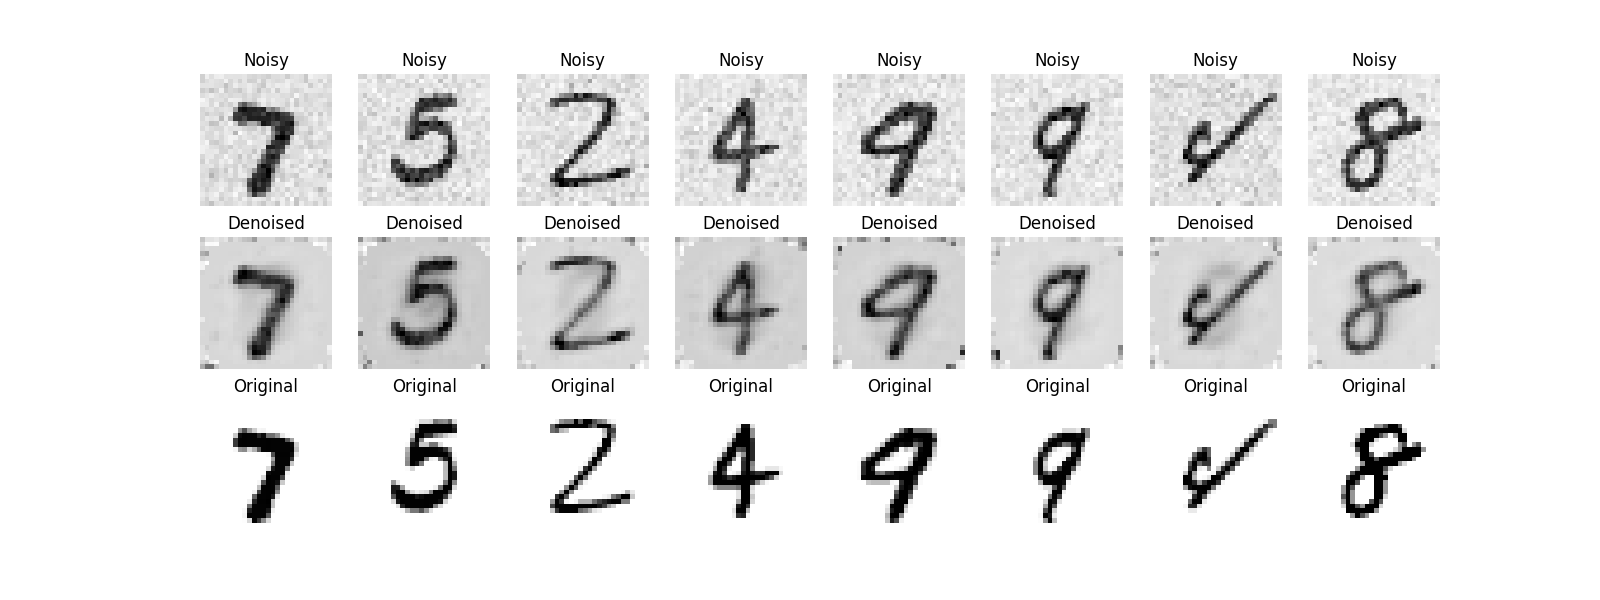
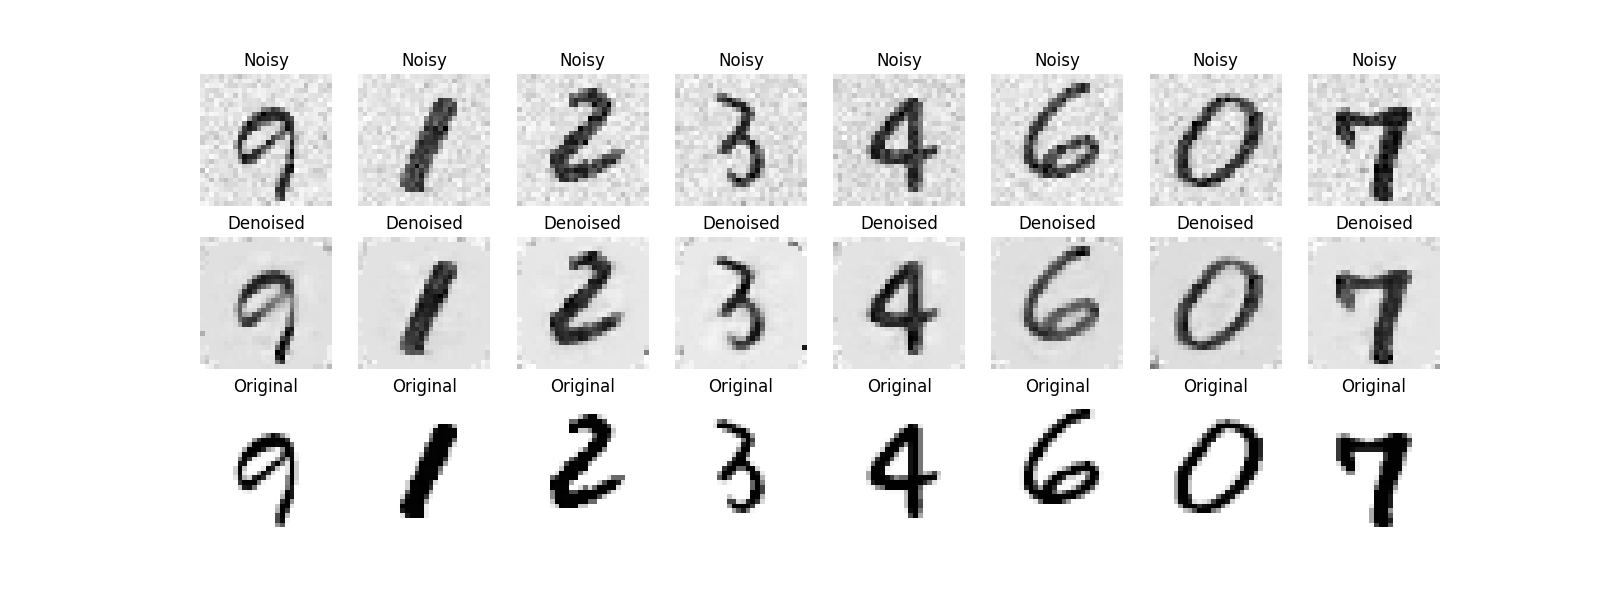
Resnet with batchnorm for FCNN added.

diff --git a/neural_networks/fcnn.py b/neural_networks/fcnn.py
@@ -12,6 +12,50 @@ import tensorflow as tf
 
 from neural_networks import scalers
 
+def bn_relu_conv(in_tf, is_training_tf, n_filters=16,
+    residual=False, reuse=False):
+    """ A convolutional resnet building block.
+    
+    Pushes in_tf through batch_norm, relu, and convolution.
+    If residual = True, make two bn_relu_conv layers and add
+    a skip connection. All convolutional filters are 3x3.
+
+    Args:
+        in_tf: Input tensor.
+        is_training_tf: bool tensor, indicates whether we're in the training
+            phase or not (used by batch_norm and dropout).
+        n_filters (int): Number of 3x3 convolution filters.
+        residual (bool): Whether to make the layer residual.
+        reuse (bool): Whether to reuse Tensorflow variables.
+
+    Returns:
+        out_tf: Output tensor.
+    """
+
+    # Apply batch normalization.
+    out_tf = tf.layers.batch_normalization(
+        in_tf, center=True, scale=True, training=is_training_tf)
+
+    # Apply the nonlinearity.
+    out_tf = tf.nn.elu(out_tf)
+
+    # Apply convolutions.
+    out_tf = tf.layers.conv2d(
+        out_tf, filters=n_filters, kernel_size=3,
+        padding='same', activation=None, reuse=reuse, name='conv1')
+
+    if residual:
+        out_tf = tf.layers.batch_normalization(
+            out_tf, center=True, scale=True, training=is_training_tf)
+        out_tf = tf.nn.elu(out_tf)
+        out_tf = tf.layers.conv2d(
+            out_tf, filters=n_filters, kernel_size=3,
+            padding='same', activation=None, reuse=reuse, name='conv2')
+        out_tf += in_tf
+    tf.summary.histogram('ftr_map', out_tf)
+
+    return out_tf
+
 
 class FCNN(object):
     """ A Fully Convolutional Neural Net with residual connections.
@@ -29,27 +73,34 @@ class FCNN(object):
             in each layer.
         x_tf (tf.placeholder): If given, use as graph input.
         reuse (bool): Whether to reuse the net weights.
+        bn (bool): Whether to use batch normalization.
+        res (bool): Whether to add residual connections.
 
     TODO: This first version has no residual connections!
     """
-    def __init__(self, x_shape, n_layers=3, n_filters=np.array([4] * 3),
-        x_tf=None, reuse=False, **kwargs):
+    def __init__(self, x_shape, n_layers=4, n_filters=None,
+        x_tf=None, reuse=False, bn=True, res=True, **kwargs):
+        if n_filters is None:
+            n_filters = np.array([64] * n_layers)
         if n_layers != len(n_filters):
             raise ValueError('Number of layers must equal len(n_filters)')
         self.x_shape = x_shape
         self.n_layers = n_layers
         self.n_filters = n_filters
         self.reuse = reuse
+        self.bn = bn
+        self.res = res
 
         # Set up the placeholders.
         if x_tf is None:
-            self.x_tf = tf.placeholder(
-                tf.float32, [None, x_shape[0], x_shape[1], x_shape[2]], name='input')
+            self.x_tf = tf.placeholder(tf.float32,
+                [None, x_shape[0], x_shape[1], x_shape[2]], name='input')
         else:
             self.x_tf = x_tf
-        self.y_tf = tf.placeholder(
-            tf.float32, [None, x_shape[0], x_shape[1], x_shape[2]], name='output')
+        self.y_tf = tf.placeholder(tf.float32,
+            [None, x_shape[0], x_shape[1], x_shape[2]], name='output')
         self.lr_tf = tf.placeholder(tf.float32, name='learningrate')
+        self.is_training = tf.placeholder(tf.bool, name='train_flag')
 
         # Inference.
         self.y_pred = self.define_fcnn(**kwargs)
@@ -75,17 +126,14 @@ class FCNN(object):
         # Create the hidden layers.
         for layer_id in range(self.n_layers):
             with tf.variable_scope('layer{}'.format(layer_id)):
-                y_pred = tf.layers.conv2d(
-                    y_pred, filters=self.n_filters[layer_id], kernel_size=3,
-                    padding='same', activation=tf.nn.elu, reuse=self.reuse)
-                tf.summary.histogram('feature_map', y_pred)
-    
+                y_pred = bn_relu_conv(y_pred, self.is_training,
+                    self.n_filters[layer_id], self.res, self.reuse)
+                
         # The final layer polls depth channels with 1x1 convolutions.
         with tf.variable_scope('1x1conv'):
             y_pred = tf.layers.conv2d(
                 y_pred, filters=self.x_shape[2], kernel_size=1, padding='same',
                 activation=None, reuse=self.reuse)
-            tf.summary.histogram('feature_map', y_pred)
 
         return y_pred
 
@@ -94,7 +142,11 @@ class FCNN(object):
         return loss
 
     def define_training(self):
-        return tf.train.AdamOptimizer(self.lr_tf).minimize(self.loss_tf)
+        # Make sure to include batch_norm dependencies during training.
+        update_ops = tf.get_collection(tf.GraphKeys.UPDATE_OPS)
+        with tf.control_dependencies(update_ops):
+            train_op = tf.train.AdamOptimizer(self.lr_tf).minimize(self.loss_tf)
+        return train_op
 
     def define_scalers(self):
         return scalers.StandardScaler(), scalers.StandardScaler()
@@ -112,11 +164,11 @@ class FCNN(object):
         nans = np.isnan(x)
         x = self.scaler_x.transform(x)
         x[np.isnan(x)] = 0
-        feed_dict = {self.x_tf: x}
+        feed_dict = {self.x_tf: x, self.is_training: False}
         y_pred = sess.run(self.y_pred, feed_dict)
         return self.scaler_y.inverse_transform(y_pred)
 
-    def fit(self, x, y, sess, epochs=1000, batch_size=32,
+    def fit(self, x, y, sess, epochs=1000, batch_size=128,
             lr=1e-3, valsize=.1, nn_verbose=True,
             writer=None, summary=None, **kwargs):
         """ Train the MDN to maximize the data likelihood.
@@ -178,6 +230,7 @@ class FCNN(object):
                 np.random.choice(n_samples-n_val, batch_size, replace=False)]
             feed_dict = {self.x_tf: x[batch_ids],
                          self.y_tf: y[batch_ids],
+                         self.is_training: True,
                          self.lr_tf: lr}
 
             if summary is None:
@@ -190,6 +243,7 @@ class FCNN(object):
                     feed_dict)
 
             if n_val > 0:
+                feed_dict[self.is_training] = False
                 feed_dict[self.x_tf] = x[ids_perm[:n_val]]
                 feed_dict[self.y_tf] = y[ids_perm[:n_val]]
                 val_loss, vals = sess.run([self.loss_tf, val_summary],
@@ -236,11 +290,11 @@ if __name__ == "__main__":
     ims_tr = mnist.train.images.reshape(-1, 28, 28, 1)
     ims_ts = mnist.test.images.reshape(-1, 28, 28, 1)
 
-    # Create a dataset of MNIST with random Gaussian noise as inputs
+    # Create a dataset of MNIST with random binary noise as inputs
     # and the original digits as outputs.
-    X_tr = ims_tr + np.random.randn(*ims_tr.shape) * .1
+    X_tr = ims_tr + np.abs(np.random.randn(*ims_tr.shape) * .1)
     Y_tr = ims_tr
-    X_ts = ims_ts + np.random.randn(*ims_ts.shape) * .1
+    X_ts = ims_ts + np.abs(np.random.randn(*ims_ts.shape) * .1)
     Y_ts = ims_ts
 
     # Define the graph.
@@ -257,7 +311,7 @@ if __name__ == "__main__":
         writer.add_graph(sess.graph)
 
         # Fit the net.
-        fcnn.fit(X_tr, Y_tr, sess, writer=writer, summary=summary)
+        fcnn.fit(X_tr, Y_tr, sess, epochs=100, writer=writer, summary=summary)
 
         # Predict.
         Y_pred = fcnn.predict(X_ts, sess).reshape(-1, 28, 28)

diff --git a/neural_networks/gan_fcnn.py b/neural_networks/gan_fcnn.py
@@ -81,18 +81,20 @@ class GAN_FCNN(object):
     def define_gan(self):
         with tf.variable_scope('generator'):
             gen_net = SkeletonFCNN(
-                x_shape=self.x_shape, x_tf=self.z_tf)
+                x_shape=self.x_shape, x_tf=self.z_tf, n_layers=4,
+                n_filters=np.array([32] * 4))
             x_from_z = tf.nn.tanh(gen_net.y_pred)
 
         with tf.variable_scope('discriminator') as scope:
             # Transform the (h x w x c) feature map to a scalar by avg pooling.
-            disc_net = SkeletonFCNN(x_shape=self.x_shape, x_tf=self.x_tf)
+            disc_net = SkeletonFCNN(x_shape=self.x_shape, x_tf=self.x_tf,
+                n_layers=6, n_filters=np.array([32] * 6))
             y_from_x = tf.reduce_mean(disc_net.y_pred, axis=[1, 2, 3])
             y_from_x = tf.reshape(y_from_x, [-1, 1])
             scope.reuse_variables()
 
             y_from_z = SkeletonFCNN(x_shape=self.x_shape, x_tf=x_from_z,
-                reuse=True).y_pred
+                n_layers=6, n_filters=np.array([32] * 6), reuse=True).y_pred
             y_from_z = tf.reduce_mean(y_from_z, axis=[1, 2, 3])
             y_from_z = tf.reshape(y_from_z, [-1, 1])
 
@@ -118,7 +120,7 @@ class GAN_FCNN(object):
             self.d_loss_tf,  var_list=var_list)
 
     def fit(self, x, sess, epochs=1000, batch_size=32, lr=1e-3,
-            n_diters=30, nn_verbose=True, **kwargs):
+            n_diters=100, nn_verbose=True, **kwargs):
         start_time = time.time()
         batch_size = min(batch_size, x.shape[0])
         x = self.scaler_x.fit_transform(x)
@@ -219,4 +221,5 @@ if __name__=="__main__":
         plt.axis('off')
         plt.imshow(X_samples[im_id].reshape(28, 28),
             cmap='Greys', interpolation='nearest')
+    plt.savefig('gan_fcnn.png')
     plt.show()
